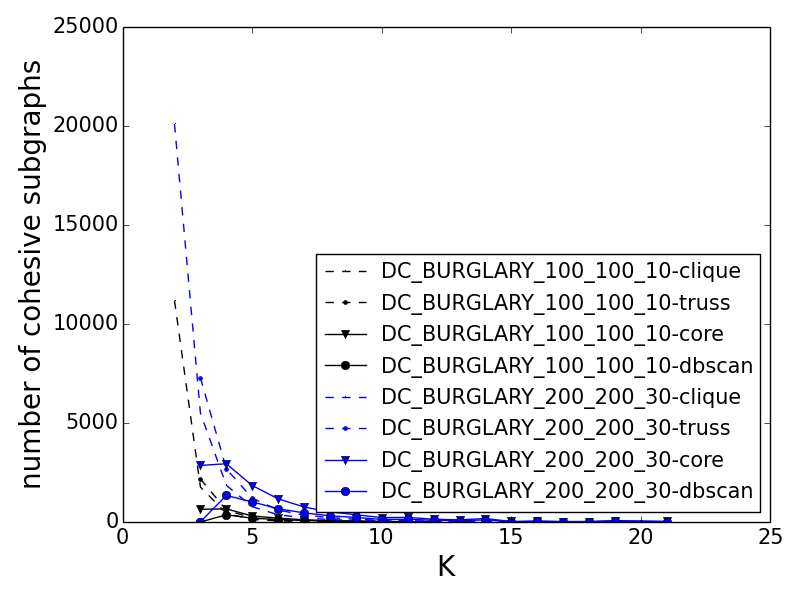
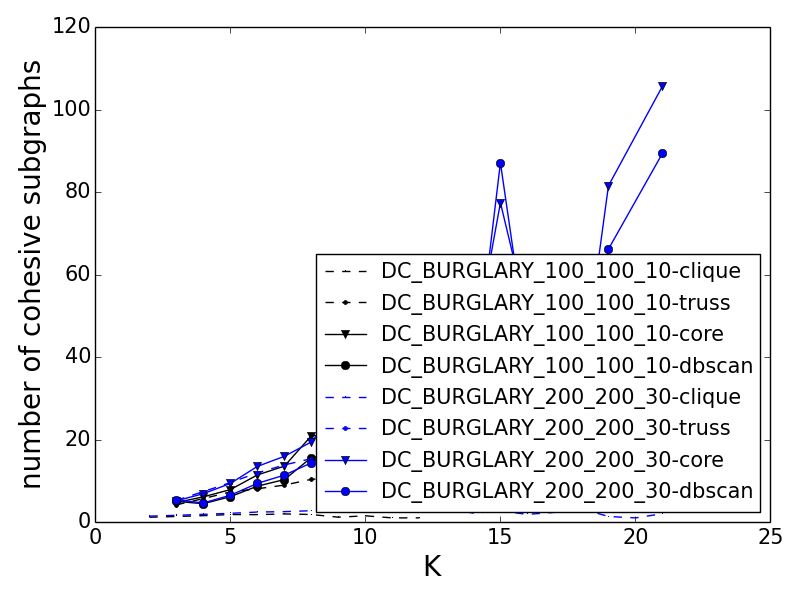
sth new

diff --git a/scripts/data_analysis.py b/scripts/data_analysis.py
@@ -142,7 +142,7 @@ class JsonStatsCollections:
                 plt.plot(self.coll[c].trussSize['x'],  self.coll[c].trussSize['y'],  color=colors[i], linestyle='--', marker='.', label = self.coll[c].name+'-truss')
                 plt.plot(self.coll[c].coreSize['x'],   self.coll[c].coreSize['y'],   color=colors[i], linestyle='-',  marker='v', label = self.coll[c].name+'-core')
                 plt.plot(self.coll[c].dbscanSize['x'], self.coll[c].dbscanSize['y'], color=colors[i], linestyle='-',  marker='o', label = self.coll[c].name+'-dbscan')
-            else:
+            elif is_freq == True:
                 plt.plot(self.coll[c].clique['x'], self.coll[c].clique['y'], color=colors[i], linestyle='--', marker=',', label = self.coll[c].name+'-clique')
                 plt.plot(self.coll[c].truss['x'],  self.coll[c].truss['y'],  color=colors[i], linestyle='--', marker='.', label = self.coll[c].name+'-truss')
                 plt.plot(self.coll[c].core['x'],   self.coll[c].core['y'],   color=colors[i], linestyle='-',  marker='v', label = self.coll[c].name+'-core')
@@ -191,8 +191,8 @@ def main(argv):
         coll = JsonStatsCollections(dir, pfx)
         oname1 = dir + pfx + '.png'
         oname2 = dir + pfx + '_size.png'
-        coll.plot(oname2, True)
-        coll.plot(oname1, False)
+        coll.plot(oname2, False)
+        coll.plot(oname1, True)
 
 if __name__ == "__main__":
     main(sys.argv)
